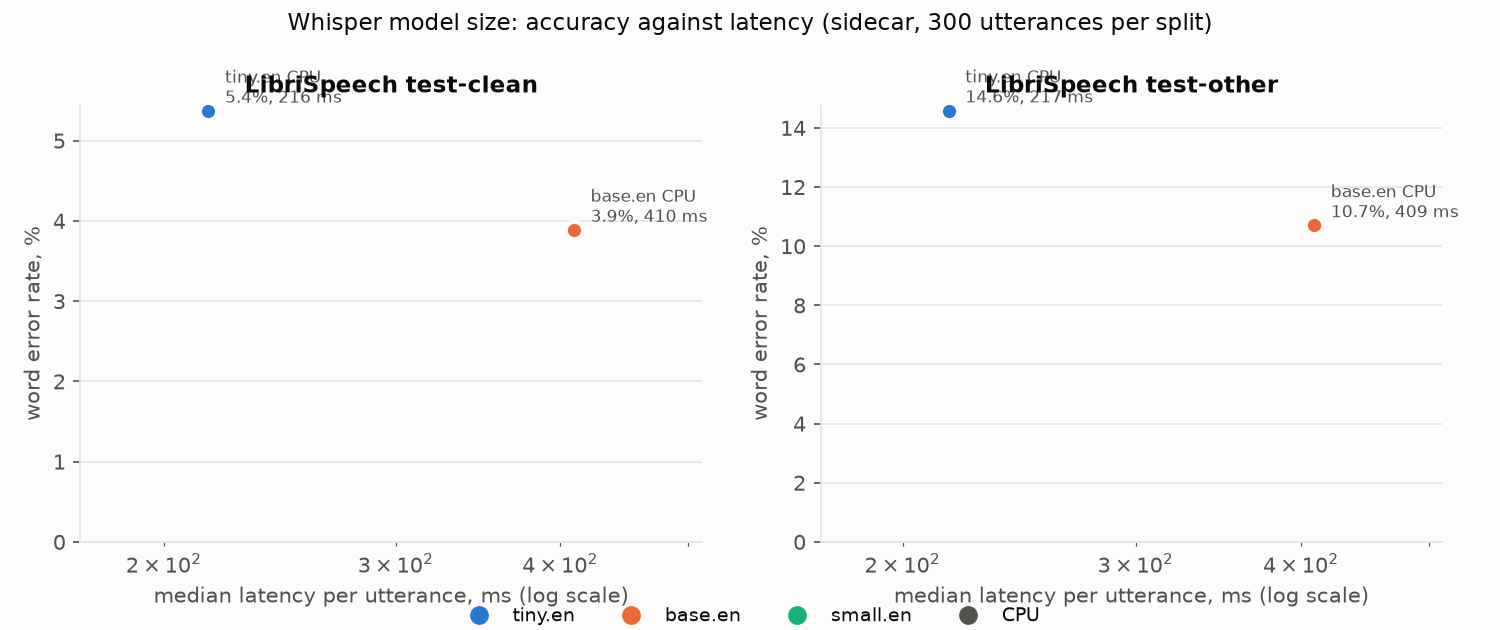
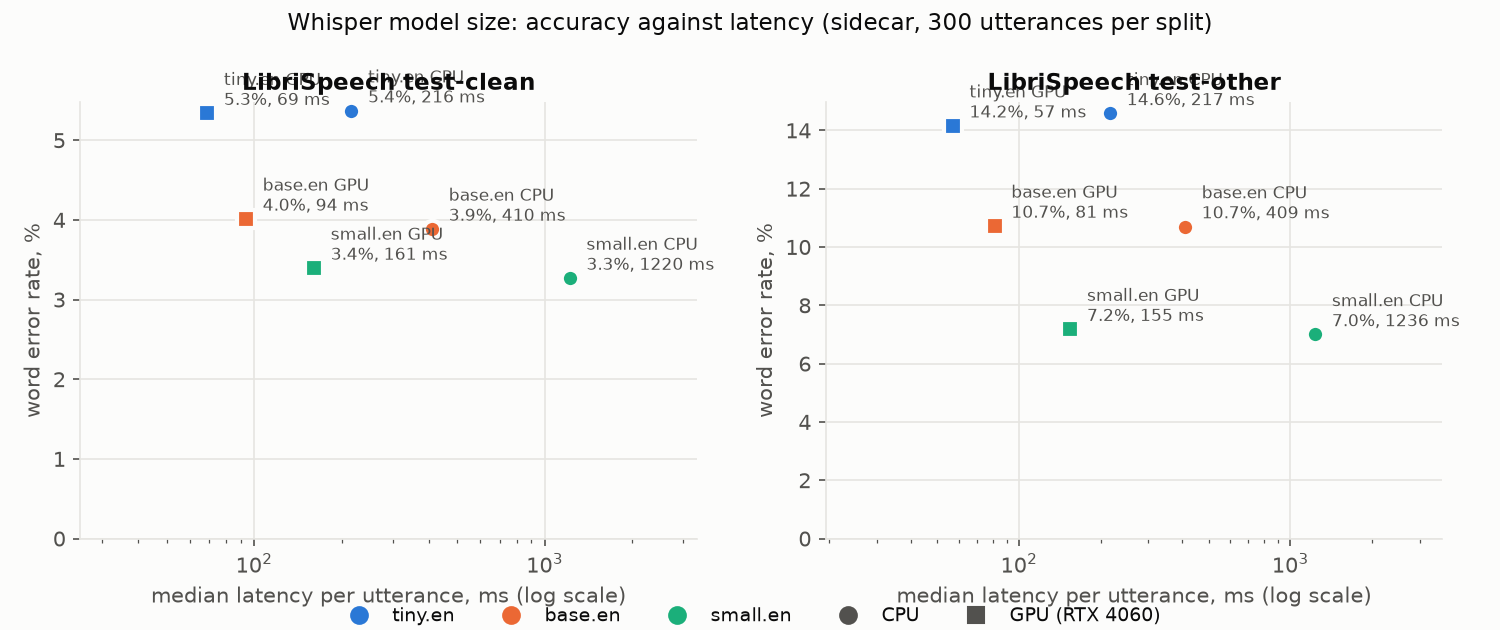
Benchmarks: regenerate tables and charts; the desktop engine's live pipeline and the room's missing-question turns in the doc

diff --git a/benchmarks/check_doc.py b/benchmarks/check_doc.py
@@ -97,6 +97,17 @@ CLAIMS = [
     claim("about 28% of non-reading windows", REPO / "training" / "gaze-detection" / "results" / "reading_detector_results.json",
           ["test", "network", "gazebase_small_hard", "window_fpr_at_low_fpr"],
           lambda v: f"about {100 * v:.0f}% of non-reading windows"),
+    # 5b. Desktop engine and room (summary, section 2)
+    claim("a median 1.8 s after the speaker", R / "engine_live_cpu.json", ["candidate_mode", "speech_end_to_first_token_ms", "median"],
+          lambda v: f"a median {v / 1000:.1f} s after the speaker"),
+    claim("0.7 s on the GPU", R / "engine_live_cuda.json", ["candidate_mode", "speech_end_to_first_token_ms", "median"],
+          lambda v: f"{v / 1000:.1f} s on the GPU"),
+    claim("all 12 questions were detected", R / "engine_live_cpu.json", ["candidate_mode", "detected"],
+          lambda v: "all 12 questions were detected" if v == 12 else f"{v} questions detected"),
+    claim("transcribed back in 3 of its 8 turns", R / "room_e2e.json", ["answers"],
+          lambda rows: f"transcribed back in {sum(not r['question_transcribed'] for r in rows)} of its {len(rows)} turns"),
+    claim("transcribed back in 3 of the 8 turns", R / "room_e2e.json", ["answers"],
+          lambda rows: f"transcribed back in {sum(not r['question_transcribed'] for r in rows)} of the {len(rows)} turns"),
     # 6. Reproducibility of the committed v2 model (section 3)
     claim("0.4900 / 0.2476 for HC3", R / "retrain_v2_rerun.json", ["thresholds", "balanced"],
           lambda v: f"{v:.4f} / 0.2476 for HC3"),

diff --git a/docs/BENCHMARKS.md b/docs/BENCHMARKS.md
@@ -20,9 +20,11 @@ their inputs and how to run them are in [Reproduce](#reproduce). Read
   sidecar's default) makes 3.9% word errors on test-clean and 10.7% on
   test-other. Its median request takes about 0.41 s on the CPU and 0.09 s on the
   GPU for a clip of about 7 s on average (section 1).
-- **Live pipeline.** In the desktop engine, real-time spoken questions are
-  detected and the answer starts streaming well under a few seconds after the
-  speaker stops (section 2; the tables give the medians and percentiles).
+- **Live pipeline.** In the desktop engine's live run (12 spoken questions in
+  real time), the first answer token appears a median 1.8 s after the speaker
+  stops on the CPU and 0.7 s on the GPU; all 12 questions were detected
+  (section 2, with percentiles). In the room run, the question was not
+  transcribed back in 3 of its 8 turns, which is reported as a problem.
 - **AI-written text.** The shipped model (v2) and the first model (v1) each
   catch 97.8% of ChatGPT answers at their `high` level on the HC3 test
   questions, and flag 1.8% (v2) and 2.0% (v1) of human answers (section 3).
@@ -67,6 +69,32 @@ cuDNN 9 from NVIDIA's pip wheels on its `PATH` (the sidecar needs them for
 `benchmarks/results/asr_cpu.json`, `asr_cuda.json`, `asr_cpu_words.json`.
 
 <!-- tables:asr -->
+### Transcription: WER and speed
+
+WER with a 95% bootstrap interval over utterances in brackets. First request: a fresh sidecar's first transcription, which loads the model (models already on disk).
+
+| Model | Device | WER test-clean | WER test-other | Latency per utterance, ms (median / p90 / p95) | Real-time factor (median) | Aggregate RTF | First request, s |
+|---|---|---|---|---|---|---|---|
+| tiny.en | cpu | 5.37% (4.5–6.2) | 14.58% (12.7–16.6) | 217 / 260 / 273 | 0.041 | 0.0319 | 1.2 |
+| base.en | cpu | 3.89% (3.2–4.6) | 10.70% (9.3–12.3) | 409 / 494 / 523 | 0.078 | 0.0607 | 11.2 |
+| small.en | cpu | 3.27% (2.6–4.1) | 7.00% (5.9–8.2) | 1,232 / 1,497 / 1,648 | 0.234 | 0.1859 | 26.2 |
+| tiny.en | cuda | 5.34% (4.5–6.1) | 14.16% (12.4–16.0) | 62 / 116 / 136 | 0.011 | 0.0101 | 1.6 |
+| base.en | cuda | 4.01% (3.3–4.7) | 10.72% (9.3–12.3) | 88 / 157 / 190 | 0.016 | 0.0142 | 1.3 |
+| small.en | cuda | 3.40% (2.7–4.3) | 7.18% (6.0–8.4) | 156 / 284 / 338 | 0.029 | 0.0254 | 1.9 |
+
+300 + 300 utterances (40 + 32 speakers, 69.6 min of audio), seed 2026.
+
+*Run 2026-11-19 17:47, commit 79dbf40; 13th Gen Intel(R) Core(TM) i9-13900H, 15.7 GB RAM, NVIDIA GeForce RTX 4060 Laptop GPU, 8188 MiB, 621.24; Windows-10-10.0.26300-SP0; Python 3.11.9; faster-whisper 1.2.1, ctranslate2 4.9.0, fastapi 0.165.0, uvicorn 0.54.0, whisper_normalizer 1.0.1, jiwer 4.0.0.*
+
+*Run 2026-11-19 18:09, commit 1e093c0; 13th Gen Intel(R) Core(TM) i9-13900H, 15.7 GB RAM, NVIDIA GeForce RTX 4060 Laptop GPU, 8188 MiB, 621.24; Windows-10-10.0.26300-SP0; Python 3.11.9; faster-whisper 1.2.1, ctranslate2 4.9.0, fastapi 0.165.0, uvicorn 0.54.0, whisper_normalizer 1.0.1, jiwer 4.0.0.*
+
+Word timestamps (verbose_json, as the room asks), CPU:
+
+| Model | Word timings | WER test-clean | WER test-other | Latency, ms (median / p90 / p95) | Aggregate RTF |
+|---|---|---|---|---|---|
+| base.en | yes | 4.66% (3.4–6.1) | 10.77% (8.3–13.8) | 992 / 1,518 / 1,623 | 0.1621 |
+
+(100 utterances per split, the first of the same seeded order.) *Run 2026-11-19 18:13, commit 1e093c0; 13th Gen Intel(R) Core(TM) i9-13900H, 15.7 GB RAM, NVIDIA GeForce RTX 4060 Laptop GPU, 8188 MiB, 621.24; Windows-10-10.0.26300-SP0; Python 3.11.9; faster-whisper 1.2.1, ctranslate2 4.9.0, fastapi 0.165.0, uvicorn 0.54.0, whisper_normalizer 1.0.1, jiwer 4.0.0.*
 <!-- /tables -->
 
 ![Word error rate against latency for each Whisper model on CPU and GPU](../benchmarks/results/asr_wer_latency.png)
@@ -106,15 +134,121 @@ Three views of the same pipeline:
   from llama3.2.
 
 <!-- tables:engine -->
+### Desktop engine: built-in benchmark (synthetic input, mock LLM)
+
+| Item | Median | p90 | p95 | Unit |
+|---|---|---|---|---|
+| Question detection | 0.101 | 0.1144 | 0.1309 | ms |
+| Voice activity detection | 4.542e+04 | 4.807e+04 | 4.908e+04 | x realtime |
+| Local embedding | 0.007 | 0.007 | 0.0071 | ms |
+| Context retrieval (1,500 items) | 0.507 | 0.5579 | 0.5846 | ms |
+| Prompt assembly | 0.2045 | 0.236 | 0.2467 | ms |
+| Pipeline: transcript → question detected | 0.2645 | 0.3279 | 0.3481 | ms |
+| Pipeline: question → first token (mock LLM) | 0.0855 | 0.3773 | 0.4059 | ms |
+| Pipeline: first token → complete (mock LLM) | 0.0405 | 0.0506 | 0.0665 | ms |
+
+20 runs. *Run 2026-11-23 18:56, commit f10ae37; 13th Gen Intel(R) Core(TM) i9-13900H, 15.7 GB RAM, NVIDIA GeForce RTX 4060 Laptop GPU, 8188 MiB, 621.24; Windows-10-10.0.26300-SP0; Python 3.11.9; rustc 1.99.0 (b940084d7 2026-09-28).*
+
+### Desktop engine: live pipeline, Whisper base.en on CPU
+
+| Stage (from the end of the speech) | ms (median / p90 / p95) | n |
+|---|---|---|
+| transcript final (VAD hangover + Whisper) | 1,386 / 2,092 / 2,104 | 12 |
+| question detected | 1,386 / 2,092 / 2,104 | 12 |
+| question detected -> first answer token | 389 / 496 / 601 | 12 |
+| first answer token | 1,840 / 2,531 / 2,647 | 12 |
+| first token -> answer complete | 3,807 / 6,413 / 8,230 | 12 |
+| answer complete | 6,015 / 7,606 / 9,231 | 12 |
+| interviewer mode: first follow-up | 7,394 / 16,091 / 23,697 | 11 |
+| interviewer mode: follow-ups done | 18,148 / 31,691 / 34,444 | 11 |
+
+Questions detected: 12 of 12; one transcript per question: 12; answers with follow-ups: 10 of 12; summary after stop: 33.3 s (ok).
+
+Engine's own latency tracker: AudioToTranscript p50 1,389 ms, p95 5,111 ms (n 49); TranscriptToDetection p50 1 ms, p95 11 ms (n 49); DetectionToFirstToken p50 726 ms, p95 1,486 ms (n 24); FirstTokenToComplete p50 7,617 ms, p95 22,030 ms (n 23)
+
+*Run 2026-11-23 21:27, commit 72f9343; 13th Gen Intel(R) Core(TM) i9-13900H, 15.7 GB RAM, NVIDIA GeForce RTX 4060 Laptop GPU, 8188 MiB, 621.24; Windows-10-10.0.26300-SP0; Python 3.11.9; faster-whisper 1.2.1, ctranslate2 4.9.0; Ollama 0.34.0; rustc 1.99.0 (b940084d7 2026-09-28).*
+
+### Desktop engine: live pipeline, Whisper base.en on CUDA
+
+| Stage (from the end of the speech) | ms (median / p90 / p95) | n |
+|---|---|---|
+| transcript final (VAD hangover + Whisper) | 354 / 465 / 493 | 12 |
+| question detected | 354 / 465 / 493 | 12 |
+| question detected -> first answer token | 337 / 508 / 2,100 | 12 |
+| first answer token | 701 / 876 / 2,436 | 12 |
+| first token -> answer complete | 3,802 / 8,875 / 10,010 | 12 |
+| answer complete | 4,503 / 11,256 / 12,616 | 12 |
+| interviewer mode: first follow-up | 3,595 / 4,548 / 5,316 | 11 |
+| interviewer mode: follow-ups done | 6,764 / 10,834 / 15,289 | 11 |
+
+Questions detected: 12 of 12; one transcript per question: 12; answers with follow-ups: 11 of 12; summary after stop: 17.2 s (ok).
+
+Engine's own latency tracker: AudioToTranscript p50 868 ms, p95 1,075 ms (n 49); TranscriptToDetection p50 1 ms, p95 3 ms (n 49); DetectionToFirstToken p50 513 ms, p95 1,329 ms (n 23); FirstTokenToComplete p50 3,951 ms, p95 10,945 ms (n 23)
+
+*Run 2026-11-23 21:45, commit 04a488c; 13th Gen Intel(R) Core(TM) i9-13900H, 15.7 GB RAM, NVIDIA GeForce RTX 4060 Laptop GPU, 8188 MiB, 621.24; Windows-10-10.0.26300-SP0; Python 3.11.9; faster-whisper 1.2.1, ctranslate2 4.9.0; Ollama 0.34.0; rustc 1.99.0 (b940084d7 2026-09-28).*
 <!-- /tables -->
 
 <!-- tables:sidecar -->
+### Sidecar endpoints
+
+| Endpoint | What is sent | Latency, ms (median / p90 / p95) | First request, ms | n |
+|---|---|---|---|---|
+| `POST /v1/embeddings` | one answer | 24.4 / 62.6 / 81.7 | 1,206 | 50 |
+| `POST /v1/embeddings` | answer + 2 reference answers | 168.8 / 269.9 / 335.0 | – | 50 |
+| `POST /v1/integrity/echo` | one answer (AI-text model) | 4.30 / 23.40 / 25.82 | 92 | 50 |
+| `POST /v1/integrity/gaze/frame` | one JPEG frame, 10 a second | 25.6 / 32.8 / 35.0 | 2,456 | 636 |
+| `POST /v1/integrity/reading` | last 10 s of gaze | 14.48 / 26.07 / 26.86 | – | 50 |
+| `POST /v1/integrity/reading` | last 60 s of gaze | 27.92 / 33.68 / 34.98 | – | 50 |
+
+Gaze feed: 636 frames in public-domain NASA portrait (scikit-image astronaut.png), JPEG q80; face found in 636; 9.09 frames a second achieved; 0 errors.
+
+*Run 2026-11-23 18:42, commit 8f7828a; 13th Gen Intel(R) Core(TM) i9-13900H, 15.7 GB RAM, NVIDIA GeForce RTX 4060 Laptop GPU, 8188 MiB, 621.24; Windows-10-10.0.26300-SP0; Python 3.11.9; fastapi 0.163.1, uvicorn 0.54.0, fastembed 0.9.1, onnxruntime 1.32.0, mediapipe 1.2.3, opencv-contrib-python 5.0.0.93, numpy 2.4.6.*
 <!-- /tables -->
 
 <!-- tables:followups -->
+### Follow-up questions: local LLM vs rules
+
+| Mode | Latency per answer, ms (median / p90 / p95) | Suggestions before guardrails | Kept (shown) | Answers with at least one kept | Fell back to rules |
+|---|---|---|---|---|---|
+| local (llama3.2, structured output) | 2,614 / 3,236 / 7,279 | 95 | 95 (2.64 per answer) | 35 / 36 | 1 |
+| rules | 0.243 / 0.345 / 0.379 | 72 | 72 (2.0 per answer) | 36 / 36 | – |
+
+Streamed (same prompt and model, plain text): first token 29 / 33 / 35 ms, whole answer 1,253 / 1,603 / 1,699 ms (median / p90 / p95). First local call after loading: 7,985 ms.
+
+Echo reference answers (2 per question, llama3.2): 3,992 / 4,409 / 4,555 ms; 152 words each (median).
+
+Dropped by the guardrails (local): none; rules output under the same guardrails: none dropped. Kept with a trigger the candidate actually said: local 89 of 95, rules 72 of 72.
+
+*Run 2026-11-23 18:44, commit ef94b29; 13th Gen Intel(R) Core(TM) i9-13900H, 15.7 GB RAM, NVIDIA GeForce RTX 4060 Laptop GPU, 8188 MiB, 621.24; Windows-10-10.0.26300-SP0; Python 3.11.9; langchain-core 1.8.1, langchain-ollama 1.1.0, ollama 0.6.3; Ollama 0.34.0.*
 <!-- /tables -->
 
 <!-- tables:room -->
+### Interview room, end to end
+
+| Step (turns 1-7) | ms (median / p90 / p95) | n |
+|---|---|---|
+| answer closed -> its last transcripts back | 530 / 1,138 / 1,405 | 7 |
+| POST /answers (AI text, delivery, reading, flag) | 12 / 150 / 249 | 7 |
+| answer closed -> card shown | 542 / 1,284 / 1,652 | 7 |
+| card -> echo similarity filled in | 117 / 469 / 625 | 7 |
+| card -> follow-ups shown | 3,259 / 3,871 / 3,909 | 7 |
+| every transcription request (both speakers, all turns) | 1,808 / 2,669 / 2,896 | 25 |
+| every gaze frame | 22 / 32 / 34 | 2937 |
+
+The question's text was back 1.90 s (median; max 2.87 s) after the interviewer stopped.
+
+| Turn | Answer | Candidate starts after | Question known | Pieces (late) | Flag | AI text | Echo similarity | Delivery | Reading | Follow-ups |
+|---|---|---|---|---|---|---|---|---|---|---|
+| 1 | q02 (written) | 2.5 s | yes | 2 (0) | possible | low (0%) | low (0.609) | baseline | possible | 3 (ai) |
+| 2 | q03 (written) | 2.5 s | **no** | 2 (0) | possible | low (2%) | unavailable | baseline | possible | 1 (ai) |
+| 3 | q04 (written) | 2.5 s | yes | 1 (0) | possible | low (5%) | low (0.685) | baseline | possible | 3 (ai) |
+| 4 | q05 (written) | 2.5 s | yes | 2 (0) | possible | low (0%) | low (0.616) | low | possible | 3 (rules) |
+| 5 | q01 (llama3.2, read out) | 2.5 s | **no** | 3 (0) | high | high (96%) | unavailable | low | possible | 3 (ai) |
+| 6 | q07 (written) | 2.5 s | yes | 1 (0) | possible | low (12%) | low (0.733) | low | possible | 1 (ai) |
+| 7 | q06 (llama3.2, read out) | 2.5 s | yes | 4 (0) | high | high (82%) | high (0.958) | low | low | 1 (rules) |
+| 8 | q08 (written) | 0.8 s | **no** | 2 (0) | possible | low (15%) | unavailable | low | possible | 3 (ai) |
+
+*Run 2026-11-23 18:53, commit 0a177e7; 13th Gen Intel(R) Core(TM) i9-13900H, 15.7 GB RAM, NVIDIA GeForce RTX 4060 Laptop GPU, 8188 MiB, 621.24; Windows-10-10.0.26300-SP0; Python 3.11.9; faster-whisper 1.2.1, ctranslate2 4.9.0, fastembed 0.9.1, onnxruntime 1.32.0, mediapipe 1.2.3, langchain-ollama 1.1.0, fastapi 0.163.1, uvicorn 0.54.0; Ollama 0.34.0.*
 <!-- /tables -->
 
 ![Median and 90th percentile of each live stage](../benchmarks/results/pipeline_latency.png)
@@ -123,6 +257,13 @@ The live engine numbers are the desktop app's own pipeline on this machine;
 the room numbers come from the room's HTTP API and include its browser-side
 requests through the sidecar and Ollama. The latency to the first answer token
 is what the candidate sees first; the complete answer follows after it.
+
+In the room run, the question's text was not transcribed back in 3 of the 8
+turns (turns 2, 5 and 8 in the table: "Question known" is **no**). Those turns
+still produced answers, flags and follow-ups from the candidate's own speech
+and the video, but the room had no question text for them. The cause was not
+investigated. The room run is 8 answers, so this is a finding about this run,
+not a rate.
 
 ## 3. Detection rate and false flags
 
@@ -134,6 +275,18 @@ threshold below was chosen on development data before these test sets were
 scored.
 
 <!-- tables:held_out -->
+### Detection rate and false flags: held-out results already measured
+
+| Signal | Test data (held out) | ROC-AUC | Detection rate | False-flag rate | Source |
+|---|---|---|---|---|---|
+| Reading (shipped network) | GazeBase, 64 unseen people, 10 s windows, webcam-quality noise | 0.999 | 99.7% at `possible` | 4.9% at `possible` (balanced accuracy 98.8% at `high`) | `training/gaze-detection/results/reading_detector_results.json` |
+| Reading, hardest condition | same people, small face + heavy noise | 0.949 | 97.6% at `possible` | 28.5% at `possible` | same file |
+| Reading, real life (a model trained on RitW, **not** the shipped one) | Reading in the Wild, 17 unseen people | 0.908 | 78.7% | 12.8% | `training/gaze-detection/results/ritw_10s.json` |
+| AI-written text (v2, shipped) | HC3, all test questions (5,244 ChatGPT + 9,959 human answers) | 0.998 | 99.2% / 97.8% | 5.0% / 1.8% | `benchmarks/results/ai_text_v1_vs_v2.json` |
+| Echo similarity | HC3, 500 test questions (100 per source) | 0.876 | 81.1% / 46.7% | 18.6% / 6.6% | `training/echo-detection/results/echo_similarity.json` |
+| Delivery (uncalibrated) | SpiCE, 34 speakers: read vs spontaneous 30-word stretches | 0.547 | 23.2% / 8.8% of read | 27.6% / 12.2% of spontaneous | `training/echo-detection/results/delivery_spice.json` |
+
+A / B = at `possible` / at `high`.
 <!-- /tables -->
 
 These were measured when each model was built; the table only gathers them
@@ -185,6 +338,40 @@ cause of the difference was not found. v1's stored test metrics are reproduced
 with the same split code, to two decimals.
 
 <!-- tables:ai_text -->
+### AI-written text model: v1 against v2 (HC3 test questions, the same split)
+
+| Model | ROC-AUC | Balanced accuracy at `high` | Detected at `possible` | False flags at `possible` | Detected at `high` | False flags at `high` |
+|---|---|---|---|---|---|---|
+| v1 (commit 0836f1e, HC3 only) | 0.9980 | 97.9% | 99.1% | 4.9% | 97.8% | 2.0% |
+| v2 (shipped; HC3 + interview Q&A) | 0.9980 | 98.0% | 99.2% | 5.0% | 97.8% | 1.8% |
+
+Thresholds (the sidecar's: `possible` is the lower of the two stored thresholds, `high` the higher): v1 0.2494 / 0.4444; v2 0.2466 / 0.4624. 15,203 answers (5,244 ChatGPT, 9,959 human) to 4,761 test questions.
+
+By HC3 source (ROC-AUC within the source; detection and false flags at `high`):
+
+| Source | ChatGPT / human | v1 AUC | v2 AUC | v1 detected / false flags | v2 detected / false flags |
+|---|---|---|---|---|---|
+| finance | 904 / 781 | 0.999 | 0.999 | 98.9% / 1.3% | 99.1% / 1.3% |
+| medicine | 270 / 258 | 1.000 | 1.000 | 100.0% / 0.8% | 100.0% / 0.4% |
+| open_qa | 688 / 206 | 0.968 | 0.970 | 94.2% / 13.6% | 94.6% / 14.1% |
+| reddit_eli5 | 3,214 / 8,554 | 0.999 | 0.999 | 98.0% / 1.4% | 97.8% / 1.1% |
+| wiki_csai | 168 / 160 | 0.986 | 0.983 | 99.4% / 24.4% | 98.8% / 26.2% |
+
+In the fused flag (HC3 sample of 1,411 answers, two references; see section 3):
+
+| Configuration | v1 detected / false flags at `possible` | v2 detected / false flags at `possible` | v1 detected / false flags at `high` | v2 detected / false flags at `high` |
+|---|---|---|---|---|
+| ai_text alone | 98.5% / 13.0% | 98.8% / 13.2% | 97.4% / 6.4% | 97.8% / 6.8% |
+| fused (ai_text + echo) | 99.6% / 25.0% | 99.6% / 25.0% | 79.8% / 4.4% | 80.0% / 4.7% |
+
+Stored test metrics in each model file (`balanced` level, written by its training script), against the recomputed ones:
+
+| File | Stored balanced accuracy | Recomputed | Stored recall | Recomputed | Stored false-positive rate | Recomputed |
+|---|---|---|---|---|---|---|
+| v1 | 97.90% | 97.90% | 97.79% | 97.79% | 1.98% | 1.98% |
+| v2 | 97.99% | 97.99% | 97.77% | 97.77% | 1.79% | 1.79% |
+
+*Run 2026-11-23 18:34, commit f312f96; 13th Gen Intel(R) Core(TM) i9-13900H, 15.7 GB RAM, NVIDIA GeForce RTX 4060 Laptop GPU, 8188 MiB, 621.24; Windows-10-10.0.26300-SP0; Python 3.11.9; scikit-learn 1.9.1, numpy 2.4.6.*
 <!-- /tables -->
 
 ![Detection and false flags of each signal and the fused flag on HC3 test questions](../benchmarks/results/fusion_hc3.png)
@@ -232,6 +419,42 @@ run through the same benchmark (`--ai-model`, `fusion_hc3_v1.json`).
   fewer detections (72.5%).
 
 <!-- tables:fusion -->
+### The combined flag on HC3 test questions (new)
+
+| Configuration | ROC-AUC | Detected at `possible` | False flags at `possible` | Detected at `high` | False flags at `high` |
+|---|---|---|---|---|---|
+| ai_text alone | 0.993 | 98.8% | 13.2% (10.9–16.0) | 97.8% | 6.8% (5.2–9.0) |
+| echo similarity alone | 0.876 | 81.1% | 18.6% (15.9–21.7) | 46.7% | 6.6% (4.9–8.6) |
+| fused (ai_text + echo) | – | 99.6% | 25.0% (21.9–28.4) | 80.0% | 4.7% (3.3–6.5) |
+| fused, ai_text only available | – | 98.8% | 13.2% (10.9–16.0) | 0.0% | 0.0% (0.0–0.6) |
+| fused, echo only available | – | 81.1% | 18.6% (15.9–21.7) | 0.0% | 0.0% (0.0–0.6) |
+| echo similarity alone, 1 reference | 0.859 | 73.6% | 15.9% (13.3–18.8) | 37.7% | 5.5% (4.1–7.5) |
+| fused (ai_text + echo, 1 reference) | – | 99.6% | 23.4% (20.4–26.8) | 72.5% | 3.8% (2.6–5.5) |
+
+1411 answers (724 ChatGPT, 687 human) to 500 test questions; 95% Wilson intervals in brackets.
+
+By source (fused flag, 2 references; detected / false flags):
+
+| Source | ChatGPT / human answers | At `possible` | At `high` | AI text alone at `high` | Echo alone at `high` |
+|---|---|---|---|---|---|
+| finance | 123 / 100 | 100% / 11% | 84% / 0% | 100% / 1% | 43% / 0% |
+| medicine | 104 / 100 | 100% / 13% | 83% / 0% | 100% / 1% | 38% / 2% |
+| open_qa | 297 / 100 | 100% / 54% | 83% / 7% | 96% / 16% | 51% / 7% |
+| reddit_eli5 | 100 / 287 | 98% / 5% | 51% / 0% | 96% / 0% | 15% / 0% |
+| wiki_csai | 100 / 100 | 100% / 80% | 92% / 25% | 100% / 28% | 78% / 36% |
+
+Human answers flagged by the fused rule, by cause:
+
+- possible: ai_text low, echo possible: 59
+- possible: ai_text possible, echo low: 23
+- possible: ai_text low, echo high: 22
+- possible: ai_text high, echo low: 21
+- high: ai_text high, echo high: 17
+- possible: ai_text possible, echo possible: 15
+- high: ai_text high, echo possible: 9
+- high: ai_text possible, echo high: 6
+
+*Run 2026-11-23 18:38, commit f312f96; 13th Gen Intel(R) Core(TM) i9-13900H, 15.7 GB RAM, NVIDIA GeForce RTX 4060 Laptop GPU, 8188 MiB, 621.24; Windows-10-10.0.26300-SP0; Python 3.11.9; fastembed 0.9.1, onnxruntime 1.32.0, numpy 2.4.6, pandas 3.1.1, scikit-learn 1.9.1.*
 <!-- /tables -->
 
 ## 4. Ablations
@@ -251,6 +474,8 @@ the rules engine; see section 2.
   reproduces the numbers committed with 79dbf40 exactly.
 - **The committed v2 model is not reproducible from the repository's script on
   this machine** (section 3).
+- **The room did not transcribe the question back in 3 of 8 turns** (section
+  2). The cause was not investigated.
 - **Ollama stopped responding during the live engine run** (the first attempt
   failed with connection refused). The Ollama server was restarted and the run
   repeated from the beginning; the reported numbers come from that complete
